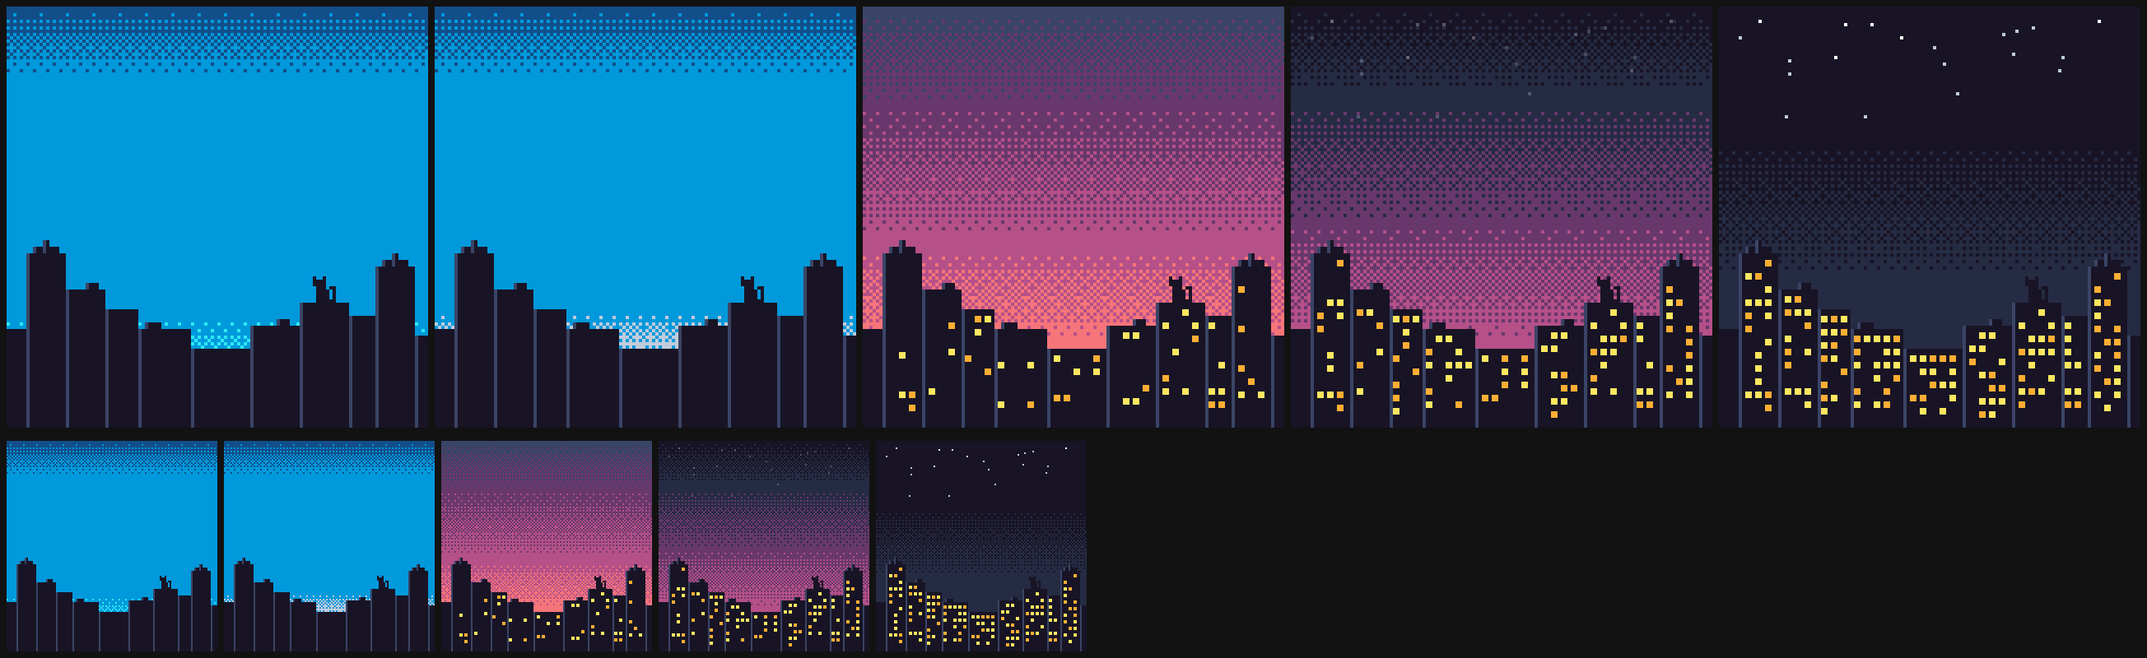
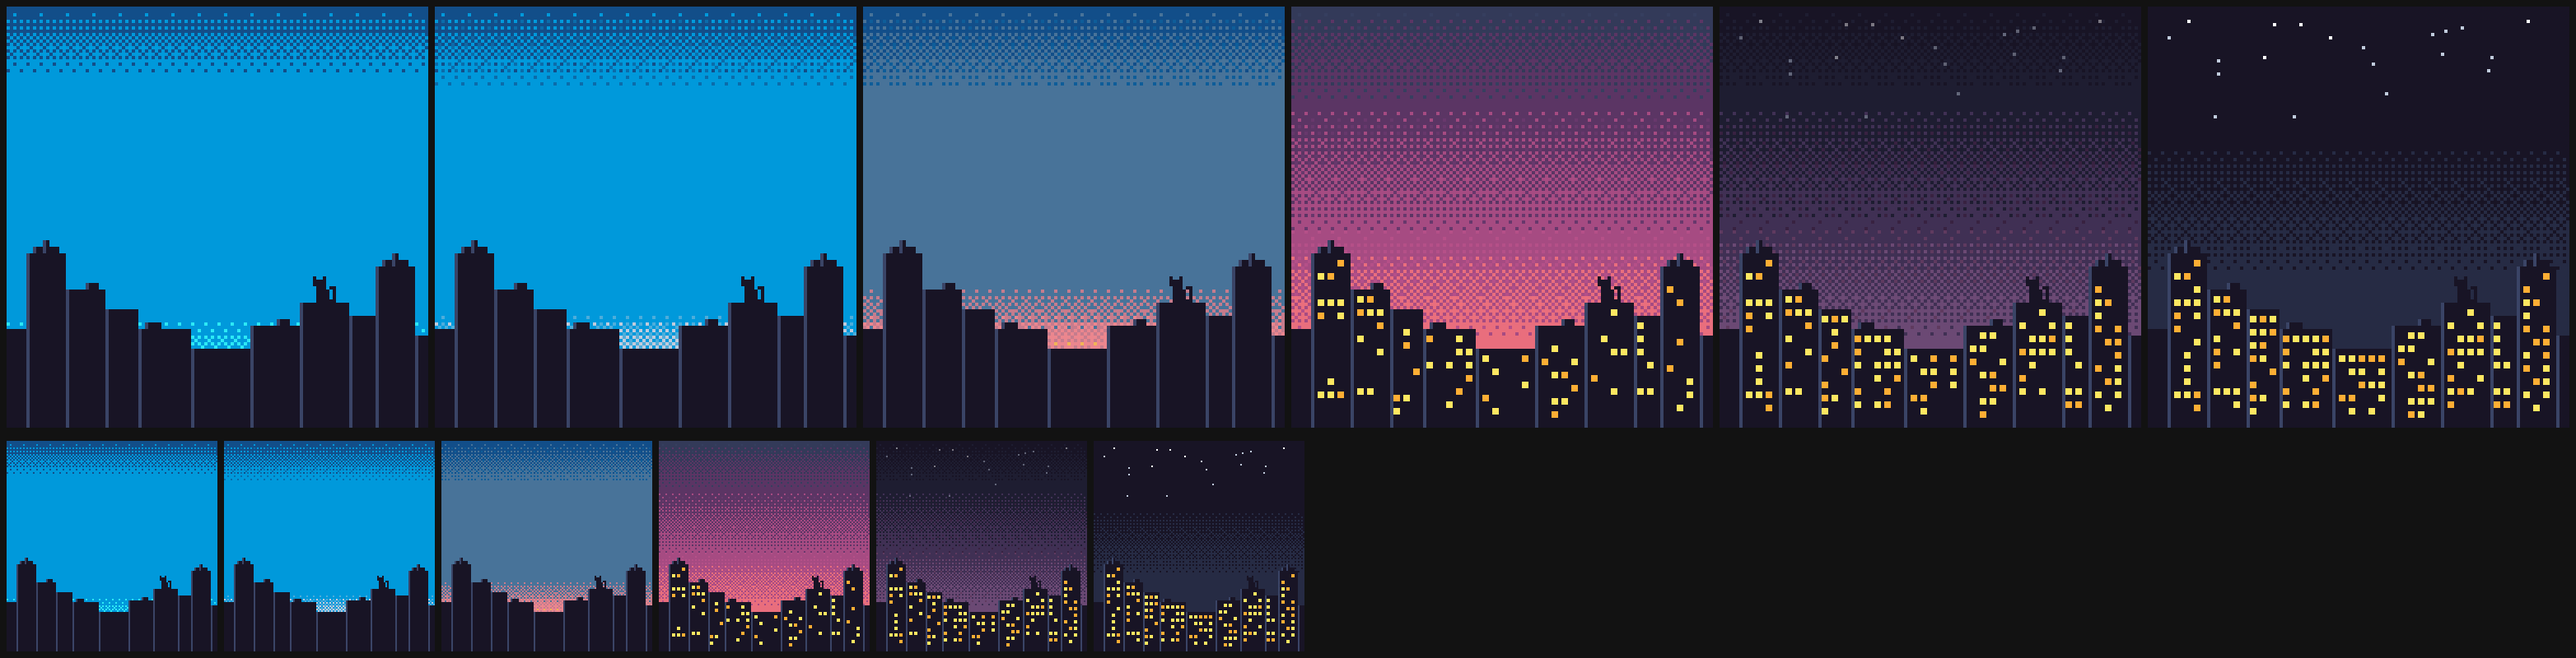
feat: 0.6.2 — eight sky plates and six window waves
The user asked for gentler change. Three designed in-between skies (late
day, golden hour, twilight) join the five, so no cross-fade has to bridge a
large hue jump — an opacity blend of blue and magenta passes through a grey
nothing chose, where a designed plate keeps its saturation. The windows go
from three waves to six, thresholds spread evenly from 40% to 80%, and each
wave now eases on over 1% of the session instead of switching. pixlib's
timeline takes its counts from the set; the CSS rules are generated from
the same two numbers. Sixteen plates, 17 KB.

diff --git a/styles.css b/styles.css
@@ -1694,16 +1694,16 @@
 /* =========================================================================
    Theme 3: Rooftop Skyline (pixel art)
    -------------------------------------------------------------------------
-   The first raster theme. Ten 128x128 plates from art/rooftop/plates, bundled
+   The first raster theme. Sixteen 128x128 plates from art/rooftop/plates, bundled
    into main.js as data URLs (Obsidian installs three files, so a loose image
    is missing for every user — rooftopArt.ts), built as
    <img class="gp-art gp-rooftop …"> in GentlePomoView.onOpen and shown only
-   here. The whole set is 11 KB.
+   here. The whole set is 18 KB.
 
    Everything moves on --gp-progress alone, read straight off the eased value
    the view publishes — no second transition on any plate (THEMES.md: "pick
-   exactly one smoothing route"). Five sky plates cross-fade across the
-   session; the window waves switch on at 40 / 60 / 80 %; the stars fade in
+   exactly one smoothing route"). Eight sky plates cross-fade across the
+   session; six window waves ease on between 40 % and 80 %; the stars fade in
    over the last third. skyPhase() already runs the arc backwards on a break,
    so a break plays the same plates in reverse and the windows go out one
    wave at a time. These thresholds are the ones art/rooftop/pixlib.py
@@ -1755,22 +1755,35 @@
 }
 
 /* Sky: plate 1 is the base and never fades; each later plate rises over one
-   quarter of the session on top of the one before. Plates share one dither
+   seventh of the session on top of the one before (eight plates, seven
+   spans: progress x 7 minus the plate's rank). Plates share one dither
    pattern, so a half-faded pair is a colour blend, not two patterns. */
 .gp-theme-rooftop-skyline .gp-rooftop-sky-2 {
-  opacity: clamp(0, var(--gp-progress) * 4, 1);
+  opacity: clamp(0, var(--gp-progress) * 7 - 0, 1);
 }
 
 .gp-theme-rooftop-skyline .gp-rooftop-sky-3 {
-  opacity: clamp(0, (var(--gp-progress) - 0.25) * 4, 1);
+  opacity: clamp(0, var(--gp-progress) * 7 - 1, 1);
 }
 
 .gp-theme-rooftop-skyline .gp-rooftop-sky-4 {
-  opacity: clamp(0, (var(--gp-progress) - 0.5) * 4, 1);
+  opacity: clamp(0, var(--gp-progress) * 7 - 2, 1);
 }
 
 .gp-theme-rooftop-skyline .gp-rooftop-sky-5 {
-  opacity: clamp(0, (var(--gp-progress) - 0.75) * 4, 1);
+  opacity: clamp(0, var(--gp-progress) * 7 - 3, 1);
+}
+
+.gp-theme-rooftop-skyline .gp-rooftop-sky-6 {
+  opacity: clamp(0, var(--gp-progress) * 7 - 4, 1);
+}
+
+.gp-theme-rooftop-skyline .gp-rooftop-sky-7 {
+  opacity: clamp(0, var(--gp-progress) * 7 - 5, 1);
+}
+
+.gp-theme-rooftop-skyline .gp-rooftop-sky-8 {
+  opacity: clamp(0, var(--gp-progress) * 7 - 6, 1);
 }
 
 /* Stars: nothing until two-thirds through, then in over the last third. */
@@ -1778,20 +1791,32 @@
   opacity: clamp(0, (var(--gp-progress) - 0.65) / 0.35, 1);
 }
 
-/* Windows: a ramp so steep it is a switch — fully on across a quarter of one
-   percent of the session, which the 0.8s ease on --gp-progress turns into a
-   lamp flicking on rather than a dimmer. A real step function is not
-   available to a computed value; this is the same thing. */
+/* Windows: six waves at thresholds spaced evenly from 40% to 80% of the
+   session, each easing on over 1% of it — fifteen seconds of a 25-minute
+   focus, a glow-up rather than a pop. A real step is not available to a
+   computed value; a ramp this steep is the same thing with a soft edge. */
 .gp-theme-rooftop-skyline .gp-rooftop-windows-1 {
-  opacity: clamp(0, (var(--gp-progress) - 0.4) * 400, 1);
+  opacity: clamp(0, (var(--gp-progress) - 0.4) * 100, 1);
 }
 
 .gp-theme-rooftop-skyline .gp-rooftop-windows-2 {
-  opacity: clamp(0, (var(--gp-progress) - 0.6) * 400, 1);
+  opacity: clamp(0, (var(--gp-progress) - 0.48) * 100, 1);
 }
 
 .gp-theme-rooftop-skyline .gp-rooftop-windows-3 {
-  opacity: clamp(0, (var(--gp-progress) - 0.8) * 400, 1);
+  opacity: clamp(0, (var(--gp-progress) - 0.56) * 100, 1);
+}
+
+.gp-theme-rooftop-skyline .gp-rooftop-windows-4 {
+  opacity: clamp(0, (var(--gp-progress) - 0.64) * 100, 1);
+}
+
+.gp-theme-rooftop-skyline .gp-rooftop-windows-5 {
+  opacity: clamp(0, (var(--gp-progress) - 0.72) * 100, 1);
+}
+
+.gp-theme-rooftop-skyline .gp-rooftop-windows-6 {
+  opacity: clamp(0, (var(--gp-progress) - 0.8) * 100, 1);
 }
 
 /* The running-state size pulse resamples a bitmap at 1.03x every frame,

diff --git a/rooftopArt.ts b/rooftopArt.ts
@@ -21,11 +21,17 @@ import sky2 from "./art/rooftop/plates/sky-2.png";
 import sky3 from "./art/rooftop/plates/sky-3.png";
 import sky4 from "./art/rooftop/plates/sky-4.png";
 import sky5 from "./art/rooftop/plates/sky-5.png";
+import sky6 from "./art/rooftop/plates/sky-6.png";
+import sky7 from "./art/rooftop/plates/sky-7.png";
+import sky8 from "./art/rooftop/plates/sky-8.png";
 import stars from "./art/rooftop/plates/stars.png";
 import buildings from "./art/rooftop/plates/buildings.png";
 import windows1 from "./art/rooftop/plates/windows-1.png";
 import windows2 from "./art/rooftop/plates/windows-2.png";
 import windows3 from "./art/rooftop/plates/windows-3.png";
+import windows4 from "./art/rooftop/plates/windows-4.png";
+import windows5 from "./art/rooftop/plates/windows-5.png";
+import windows6 from "./art/rooftop/plates/windows-6.png";
 
 export interface RooftopLayer {
   /** The class the theme's CSS addresses. Its suffix is the plate's file name. */
@@ -35,10 +41,11 @@ export interface RooftopLayer {
 }
 
 /**
- * Bottom to top: the five sky plates (1 is the base, 2–5 cross-fade in over
- * successive quarters of the session), the stars (fade in over the last
- * third), the buildings (static — the only layer that never changes, so it
- * can never ghost), then the three window waves (switch on at 40 / 60 / 80 %).
+ * Bottom to top: the eight sky plates (1 is the base; 2–8 each cross-fade in
+ * over one seventh of the session, on top of the one before), the stars (fade
+ * in over the last third), the buildings (static — the only layer that never
+ * changes, so it can never ghost), then the six window waves (each eases on
+ * over about 1% of the session, at thresholds spaced evenly from 40% to 80%).
  */
 export const ROOFTOP_LAYERS: readonly RooftopLayer[] = [
   { cls: "gp-rooftop-sky-1", src: sky1 },
@@ -46,9 +53,15 @@ export const ROOFTOP_LAYERS: readonly RooftopLayer[] = [
   { cls: "gp-rooftop-sky-3", src: sky3 },
   { cls: "gp-rooftop-sky-4", src: sky4 },
   { cls: "gp-rooftop-sky-5", src: sky5 },
+  { cls: "gp-rooftop-sky-6", src: sky6 },
+  { cls: "gp-rooftop-sky-7", src: sky7 },
+  { cls: "gp-rooftop-sky-8", src: sky8 },
   { cls: "gp-rooftop-stars", src: stars },
   { cls: "gp-rooftop-buildings", src: buildings },
   { cls: "gp-rooftop-windows-1", src: windows1 },
   { cls: "gp-rooftop-windows-2", src: windows2 },
   { cls: "gp-rooftop-windows-3", src: windows3 },
+  { cls: "gp-rooftop-windows-4", src: windows4 },
+  { cls: "gp-rooftop-windows-5", src: windows5 },
+  { cls: "gp-rooftop-windows-6", src: windows6 },
 ];

diff --git a/tests/rooftopArt.test.ts b/tests/rooftopArt.test.ts
@@ -24,11 +24,17 @@ const EXPECTED_ORDER = [
   "sky-3",
   "sky-4",
   "sky-5",
+  "sky-6",
+  "sky-7",
+  "sky-8",
   "stars",
   "buildings",
   "windows-1",
   "windows-2",
   "windows-3",
+  "windows-4",
+  "windows-5",
+  "windows-6",
 ];
 
 /** Width and height from a PNG's IHDR chunk — the first chunk, at a fixed offset. */
@@ -40,7 +46,7 @@ function pngSize(bytes: Buffer): { width: number; height: number } {
 }
 
 describe("the plate list", () => {
-  it("names the ten plates, bottom to top, in the order the CSS stacks them", () => {
+  it("names the sixteen plates, bottom to top, in the order the CSS stacks them", () => {
     expect(ROOFTOP_LAYERS.map((l) => l.cls)).toEqual(EXPECTED_ORDER.map((n) => `gp-rooftop-${n}`));
   });
 
@@ -76,7 +82,7 @@ describe("the plate files", () => {
   });
 
   // Every byte here is base64-expanded by a third and shipped inside main.js
-  // to every device. Ten indexed plates come to about 11 KB; the budget is
+  // to every device. Sixteen indexed plates come to about 18 KB; the budget is
   // loose enough for a redraw and tight enough that a truecolor export from
   // Aseprite (roughly 4x the size) fails here rather than in a release.
   it("stay inside the size budget", () => {
@@ -85,7 +91,7 @@ describe("the plate files", () => {
       expect(bytes.length, `${name}.png`).toBeLessThanOrEqual(2048);
       total += bytes.length;
     }
-    expect(total).toBeLessThanOrEqual(16 * 1024);
+    expect(total).toBeLessThanOrEqual(24 * 1024);
   });
 });
 

diff --git a/art/rooftop/pixlib.py b/art/rooftop/pixlib.py
@@ -53,12 +53,20 @@ SKY_RAMPS: dict[str, list[int]] = {
 }
 
 # --------------------------------------------------------------------------
-# The timeline every variant is previewed on, and that the CSS will implement.
+# The timeline every plate set is previewed on, and that the CSS implements.
 # progress p runs 0 (day) -> 1 (night); breaks play it backwards.
+#   sky      plate 1 is the base; plate k (2..n) rises over the (k-1)th of
+#            n-1 equal spans of the session, on top of the one before
+#   windows  wave j (1..m) eases on around its threshold, thresholds spaced
+#            evenly from WINDOW_FIRST_AT to WINDOW_LAST_AT, each over
+#            1/WINDOW_RAMP of the session (1% — a glow-up, not a snap)
+#   stars    fade in across STARS_FADE
+# The plate and wave counts are whatever the set provides; the formulas
+# below and the rules in styles.css must agree for the counts shipped.
 # --------------------------------------------------------------------------
-SKY_PLATES = 5
-WINDOW_WAVES = 3
-WINDOW_WAVE_AT = [0.40, 0.60, 0.80]  # wave k switches on when p >= this
+WINDOW_FIRST_AT = 0.40
+WINDOW_LAST_AT = 0.80
+WINDOW_RAMP = 100
 STARS_FADE = (0.65, 1.0)  # stars fade in across this range
 
 
@@ -66,16 +74,22 @@ def clamp01(v: float) -> float:
     return 0.0 if v < 0 else 1.0 if v > 1 else v
 
 
-def sky_opacity(plate: int, p: float) -> float:
-    """Opacity of sky plate `plate` (1-based) at progress p. Plate 1 is the base."""
+def sky_opacity(plate: int, p: float, n: int) -> float:
+    """Opacity of sky plate `plate` (1-based, of n) at progress p. Plate 1 is the base."""
     if plate == 1:
         return 1.0
-    step = 1.0 / (SKY_PLATES - 1)
-    return clamp01((p - (plate - 2) * step) / step)
+    return clamp01(p * (n - 1) - (plate - 2))
 
 
-def window_opacity(wave: int, p: float) -> float:
-    return 1.0 if p >= WINDOW_WAVE_AT[wave - 1] else 0.0
+def window_at(wave: int, m: int) -> float:
+    """The progress at which window wave `wave` (1-based, of m) starts to light."""
+    if m == 1:
+        return WINDOW_FIRST_AT
+    return WINDOW_FIRST_AT + (wave - 1) * (WINDOW_LAST_AT - WINDOW_FIRST_AT) / (m - 1)
+
+
+def window_opacity(wave: int, p: float, m: int) -> float:
+    return clamp01((p - window_at(wave, m)) * WINDOW_RAMP)
 
 
 def stars_opacity(p: float) -> float:
@@ -269,15 +283,15 @@ def sheet(images: Sequence[Image.Image], gap: int = 8, bg: tuple[int, int, int] 
 class ThemeLayers:
     """
     Exactly what the plugin ships for this theme, in stacking order:
-      sky[1..5]   opaque, cross-faded on progress
-      stars       transparent, fades in late
-      buildings   transparent, static (the only layer with the cat)
-      windows[1..3] transparent, each switches on at its wave threshold
+      sky[1..n]     opaque, cross-faded on progress
+      stars         transparent, fades in late
+      buildings     transparent, static (the only layer with the cat)
+      windows[1..m] transparent, each eases on at its wave threshold
     """
 
     def __init__(self, sky: Sequence[Canvas], stars: Canvas, buildings: Canvas, windows: Sequence[Canvas]):
-        assert len(sky) == SKY_PLATES, f"need {SKY_PLATES} sky plates"
-        assert len(windows) == WINDOW_WAVES, f"need {WINDOW_WAVES} window waves"
+        assert len(sky) >= 2, "need at least two sky plates"
+        assert len(windows) >= 1, "need at least one window wave"
         self.sky, self.stars, self.buildings, self.windows = list(sky), stars, buildings, list(windows)
 
     def validate(self) -> list[str]:
@@ -302,10 +316,11 @@ class ThemeLayers:
         return problems
 
     def layers_at(self, p: float) -> list[tuple[Canvas, float]]:
-        out: list[tuple[Canvas, float]] = [(s, sky_opacity(i, p)) for i, s in enumerate(self.sky, 1)]
+        n, m = len(self.sky), len(self.windows)
+        out: list[tuple[Canvas, float]] = [(s, sky_opacity(i, p, n)) for i, s in enumerate(self.sky, 1)]
         out.append((self.stars, stars_opacity(p)))
         out.append((self.buildings, 1.0))
-        out.extend((w, window_opacity(i, p)) for i, w in enumerate(self.windows, 1))
+        out.extend((w, window_opacity(i, p, m)) for i, w in enumerate(self.windows, 1))
         return out
 
     def save(self, outdir: str) -> None:
@@ -316,7 +331,7 @@ class ThemeLayers:
         for i, w in enumerate(self.windows, 1):
             w.save(os.path.join(outdir, f"windows-{i}.png"))
 
-    def preview(self, outdir: str, steps: Sequence[float] = (0.0, 0.25, 0.5, 0.75, 1.0)) -> str:
+    def preview(self, outdir: str, steps: Sequence[float] = (0.0, 0.2, 0.4, 0.6, 0.8, 1.0)) -> str:
         """A strip of the timeline at 4x (craft) over a strip at 2x (about real retina size)."""
         frames = [render(self.layers_at(p)) for p in steps]
         big = sheet([upscale(f, 4) for f in frames])

diff --git a/art/rooftop/skyline.py b/art/rooftop/skyline.py
@@ -18,8 +18,8 @@ segments share one dot pattern, because lofi-cozy's two-segment BAYER4 skies
 drew a hard dotted seam across the day plates. Same colours, no seam, and
 every light band pushed below the clock text (see SKY_KEYS).
 
-Layer set (see pixlib.ThemeLayers): sky-1..5 opaque, stars / buildings /
-windows-1..3 transparent. Every pixel is an Endesga 32 index.
+Layer set (see pixlib.ThemeLayers): sky-1..8 opaque, stars / buildings /
+windows-1..6 transparent. Every pixel is an Endesga 32 index.
 """
 
 import os
@@ -62,16 +62,13 @@ def inside_clip(x: int, y: int) -> bool:
 
 
 # ---------------------------------------------------------------------------
-# Sky: five plates, top -> horizon, as row-keyed colour ramps. Every segment
+# Sky: eight plates, top -> horizon, as row-keyed colour ramps. Every segment
 # between two keys is one BAYER8 dither, and the matrix is anchored to canvas
 # coordinates, so segments and plates all share one dot pattern. Colours are
-# lofi-cozy's:
-#   day        deep blue at the very top, FLAT blue through the clock, a cyan
-#              haze only in the lowest rows, where the dip shows it
-#   afternoon  the same blue, hazing to grey then peach then sand low down
-#   dusk       slate -> plum -> magenta, salmon and amber on the horizon
-#   late dusk  ink arriving at the top, the dusk colours lower, clay low
-#   night      ink / navy, a slate glow just above the rooftops
+# lofi-cozy's five, with three designed in-betweens (late day, golden hour,
+# twilight) added at the user's request so that no cross-fade has to bridge
+# a large hue jump: an opacity blend of blue and magenta passes through a
+# grey nothing chose, while a designed plate keeps the saturation.
 #
 # The rule that placed the keys: the white text runs to about row 90 (the
 # clock digits end near row 80, the "Ends" line under them near 90), so no
@@ -80,10 +77,21 @@ def inside_clip(x: int, y: int) -> bool:
 # white on that cyan is nearly invisible.
 # ---------------------------------------------------------------------------
 SKY_KEYS = [
+    # 1 day: deep at the very top, flat blue, a cyan haze in the dip
     [(0, C["blue_deep"]), (22, C["blue"]), (94, C["blue"]), (116, C["cyan"]), (128, C["cyan"])],
+    # 2 late day: the haze goes pale
+    [(0, C["blue_deep"]), (26, C["blue"]), (94, C["blue"]), (112, C["grey_light"]), (128, C["grey_light"])],
+    # 3 afternoon: grey, then peach and sand at the horizon
     [(0, C["blue_deep"]), (22, C["blue"]), (92, C["blue"]), (106, C["grey_light"]), (118, C["peach"]), (128, C["sand"])],
+    # 4 golden hour: the blue dusts over, salmon and orange low
+    [(0, C["blue_deep"]), (28, C["grey_blue"]), (84, C["grey_blue"]), (100, C["salmon"]), (116, C["amber"]), (128, C["orange"])],
+    # 5 dusk: slate -> plum -> magenta, salmon and amber on the horizon
     [(0, C["slate"]), (30, C["plum"]), (72, C["magenta"]), (104, C["salmon"]), (128, C["amber"])],
+    # 6 late dusk: ink arriving at the top, the dusk colours lower, clay low
     [(0, C["ink"]), (28, C["navy"]), (66, C["plum"]), (102, C["magenta"]), (128, C["clay"])],
+    # 7 twilight: navy, a last plum glow just above the roofs
+    [(0, C["ink"]), (30, C["ink"]), (70, C["navy"]), (104, C["slate"]), (120, C["plum"]), (128, C["plum"])],
+    # 8 night: ink / navy, a slate glow above the rooftops
     [(0, C["ink"]), (40, C["ink"]), (84, C["navy"]), (112, C["navy"]), (128, C["slate"])],
 ]
 
@@ -172,13 +180,14 @@ def buildings_layer() -> Canvas:
 # ink, so it keeps clear of the slate edge and the roof; caps carry none.
 # About 55% of cells light; of those ~62% yellow, the rest the dimmer amber,
 # so the lit city glows unevenly. Lit panes are shuffled and dealt round-robin
-# into three waves, so each wave is spread across the whole skyline.
+# into WINDOW_WAVES waves, so each wave is spread across the whole skyline.
 # ---------------------------------------------------------------------------
 PANE = 2
 PITCH_X, PITCH_Y = 3, 4
 LIT_FRACTION = 0.55
 YELLOW_FRACTION = 0.62
 WINDOW_BOTTOM = 124  # last row a pane may occupy
+WINDOW_WAVES = 6
 
 
 def window_grid(x0: int, x1: int, roof: int) -> tuple[list[int], list[int]]:
@@ -214,9 +223,9 @@ def windows_layers(bld: Canvas, rng: random.Random) -> list[Canvas]:
                 if rng.random() < LIT_FRACTION:
                     lit.append((cx, fy, YELLOW if rng.random() < YELLOW_FRACTION else AMBER))
     rng.shuffle(lit)
-    waves = [Canvas(W, H) for _ in range(3)]
+    waves = [Canvas(W, H) for _ in range(WINDOW_WAVES)]
     for i, (cx, fy, colour) in enumerate(lit):
-        waves[i % 3].rect(cx, fy, PANE, PANE, colour)
+        waves[i % WINDOW_WAVES].rect(cx, fy, PANE, PANE, colour)
     return waves
 
 
